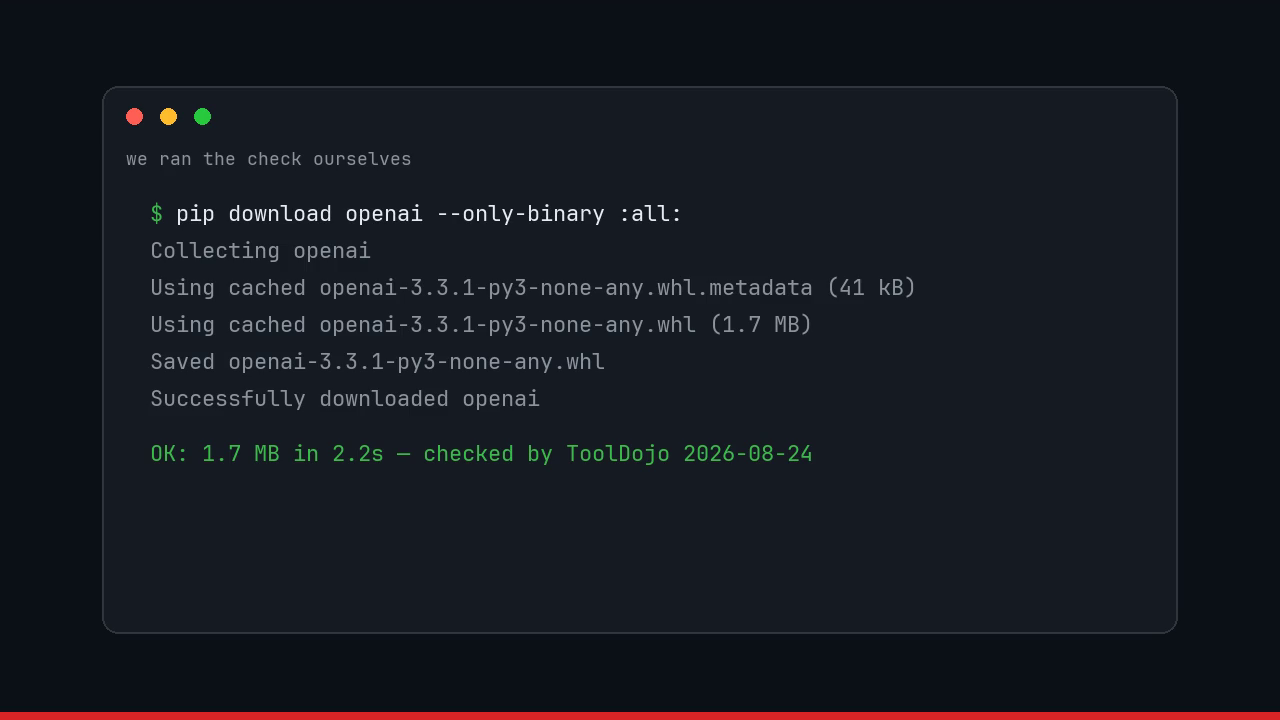
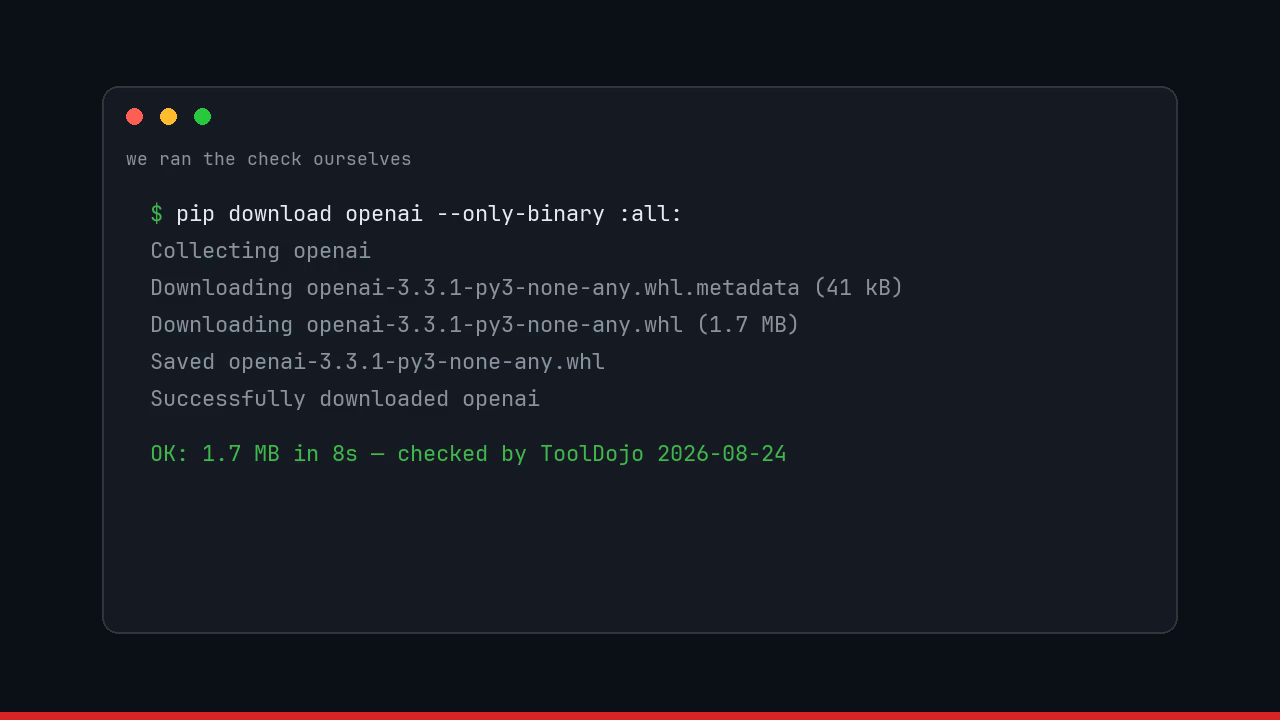
review: 9 root causes + 5 splits from the 70-agent pass, all fixed — the fetch gets a real wall clock and byte cap, receipts can no longer be planted by the LLM or read un-coerced post-upload, path rules split on both separators (the CI-red test), clone footage stops leaking the runner path, pip los

Changed region(s): [[0.125, 0.3667, 0.7188, 0.4583], [0.25, 0.6111, 0.625, 0.6417]]

diff --git a/factverse/receipts.py b/factverse/receipts.py
@@ -26,26 +26,40 @@ from factverse.screencap import INSTALL_KW, _ffmpeg, _mono_font
 
 PIP_TIMEOUT = 180
 CLONE_TIMEOUT = 180
-FETCH_TIMEOUT = 60
+FETCH_TIMEOUT = 60          # WALL-CLOCK for the whole fetch, not requests' per-read gap
+FETCH_MAX_BYTES = 2_000_000_000   # disk guard: past this the fetch is refused, not measured
 MAX_LINES = 8
 FPS = 30
 
 _PIP_RE = re.compile(r"\bpip3?(?:\.exe)?\s+install\s+(.+)", re.IGNORECASE)
 _CLONE_RE = re.compile(r"\bgit\s+clone\s+(\S+)", re.IGNORECASE)
 _FETCH_RE = re.compile(r"\b(?:curl|wget)\s+(.+)", re.IGNORECASE)
-# A segment that needs a shell to mean anything (pipes, docker, npx, process
-# substitution) is not download-checkable. Measuring the 10KB install.sh of a
-# `curl ... | sh` line and stamping it as "the download" would be a lie.
-_REFUSE_RE = re.compile(r"\||\bdocker\b|\bnpx\b|<\(", re.IGNORECASE)
-_PKG_OK = re.compile(r"^[A-Za-z0-9._-]+$")
+# A segment that needs a shell to mean anything (pipes, chaining, command
+# substitution, docker, npx) is not download-checkable. Measuring the 10KB
+# install.sh of a `curl ... | sh` line — or of its `&& sh install.sh` /
+# `$(curl ...)` cousins, which the review caught slipping through — and
+# stamping it as "the download" would be a lie.
+_REFUSE_RE = re.compile(r"\||&&|;|\$\(|`|\bdocker\b|\bnpx\b|<\(", re.IGNORECASE)
+# leading alphanumeric: kills `.`, `..` and every flag-shaped residue — a local
+# directory target would make pip BUILD it, which executes the build backend
+_PKG_OK = re.compile(r"^[A-Za-z0-9][A-Za-z0-9._-]*$")
+# flags whose ARGUMENT is not a package (pip install -r requirements.txt would
+# otherwise "check" whatever PyPI squatter owns that literal name)
+_CONSUMING_FLAGS = {"-r", "--requirement", "-c", "--constraint", "-e", "--editable",
+                    "-t", "--target", "-i", "--index-url", "--extra-index-url",
+                    "-f", "--find-links"}
 
 
 def _pip_target(rest: str) -> str:
     """First non-flag token after `install`, reduced to a bare package name.
     A URL install (git+https://...) is a SOURCE build — pip would execute its
     setup.py — so it is refused here, not merely failed later."""
-    for tok in rest.split():
+    toks = rest.split()
+    i = 0
+    while i < len(toks):
+        tok = toks[i]
         if tok.startswith("-"):
+            i += 2 if tok.split("=")[0] in _CONSUMING_FLAGS else 1
             continue
         if "://" in tok or tok.startswith("git+"):
             return ""
@@ -65,27 +79,32 @@ def check_plan(deliverable_text: str, dest: str) -> dict | None:
         if m:
             pkg = _pip_target(m.group(1))
             if pkg:
-                return {"kind": "pip", "target": pkg,
+                return {"kind": "pip", "target": pkg, "dest": dest,
                         "args": [sys.executable, "-m", "pip", "download", pkg,
                                  "--no-deps", "--only-binary", ":all:",
+                                 "--no-cache-dir",  # a cached wheel is a 0.1s "download" — a lie
                                  "--progress-bar", "off", "--no-input", "-d", dest]}
             continue
         m = _CLONE_RE.search(seg)
         if m and m.group(1).startswith(("http://", "https://")):
-            return {"kind": "clone", "target": m.group(1),
+            return {"kind": "clone", "target": m.group(1), "dest": dest,
                     "args": ["git", "clone", "--depth", "1", m.group(1), dest]}
         m = _FETCH_RE.search(seg)
         if m:
             url = next((t.strip("'\"") for t in m.group(1).split()
                         if t.startswith(("http://", "https://"))), "")
             if url:
-                return {"kind": "fetch", "target": url, "args": []}
+                return {"kind": "fetch", "target": url, "dest": dest, "args": []}
     return None
 
 
 def _round_mb(nbytes: int) -> float | int:
+    """1 decimal under 10 MB, whole numbers from 10 up — and never 0 for a real
+    download: a 10KB script would otherwise narrate 'at 0 megabytes'."""
     mb = nbytes / 1e6
-    return int(round(mb)) if mb >= 10 else round(mb, 1)
+    if mb >= 10:
+        return int(round(mb))
+    return max(0.1, round(mb, 1)) if nbytes > 0 else 0
 
 
 def _num(x) -> str:
@@ -118,11 +137,20 @@ def _dest_bytes(dest: Path) -> int:
     return sum(f.stat().st_size for f in dest.rglob("*") if f.is_file())
 
 
+def _basename(p: str) -> str:
+    """Last path segment on EITHER separator — pathlib's .name is a no-op for a
+    backslash path on posix, which turned the Saved rule into a lie on the very
+    CI the suite runs on."""
+    return re.split(r"[\\/]+", str(p).rstrip("\\/"))[-1]
+
+
 def _clean_lines(raw: str) -> list[str]:
     """The footage shows the TOOL's output, not the runner's housekeeping: pip's
-    [notice] upgrade nags are dropped, and the 'Saved <local path>' line keeps
-    only the filename — the live frame inspection caught the machine's own
-    directory layout burned onto a to-be-published video."""
+    [notice] upgrade nags are dropped, and the lines that carry a local path —
+    pip's 'Saved <path>' and git's "Cloning into '<path>'..." — keep only its
+    last segment. The live frame inspection caught the machine's own directory
+    layout burned onto a to-be-published video; the review caught the clone
+    branch re-shipping the same leak."""
     out = []
     for l in str(raw or "").splitlines():
         l = l.strip()
@@ -130,7 +158,10 @@ def _clean_lines(raw: str) -> list[str]:
             continue
         m = re.match(r"(?i)(saved\s+)(\S+)$", l)
         if m:
-            l = m.group(1) + Path(m.group(2)).name
+            l = m.group(1) + _basename(m.group(2))
+        m = re.match(r"(?i)(cloning into ')([^']+)('.*)$", l)
+        if m:
+            l = m.group(1) + _basename(m.group(2)) + m.group(3)
         out.append(l)
     return out[:MAX_LINES]
 
@@ -141,7 +172,8 @@ def run_check(plan: dict) -> dict | None:
     after measuring (a torch wheel is GBs of runner disk)."""
     if not plan:
         return None
-    dest = Path(plan["args"][-1]) if plan.get("args") else fv.TEMP / "receipts_dl"
+    dest = Path(plan.get("dest") or (plan["args"][-1] if plan.get("args")
+                                     else fv.TEMP / "receipts_dl"))
     try:
         shutil.rmtree(dest, ignore_errors=True)
         dest.mkdir(parents=True, exist_ok=True)
@@ -156,13 +188,25 @@ def run_check(plan: dict) -> dict | None:
             lines = _clean_lines((r.stdout or "") + "\n" + (r.stderr or ""))
         else:  # fetch — requests stream, no subprocess, never piped anywhere
             import requests
-            name = plan["target"].rstrip("/").rsplit("/", 1)[-1] or "download"
+            # the URL is README-verbatim = attacker-controlled: the filename is
+            # sanitized so it cannot walk out of dest (backslashes are path
+            # separators on the supervised Windows box), and the stream gets the
+            # WALL-CLOCK deadline requests' own timeout does not provide — a
+            # server dripping one byte a minute would otherwise hold the
+            # unattended run until the CI job kill, on both cron firings.
+            name = re.sub(r"[^A-Za-z0-9._-]", "_",
+                          _basename(plan["target"].split("?")[0])).lstrip(".") or "download"
+            deadline = time.monotonic() + FETCH_TIMEOUT
+            got = 0
             with requests.get(plan["target"], stream=True,
                               timeout=FETCH_TIMEOUT) as r:
                 if r.status_code != 200:
                     return None
                 with open(dest / name, "wb") as f:
                     for chunk in r.iter_content(1 << 20):
+                        got += len(chunk)
+                        if time.monotonic() > deadline or got > FETCH_MAX_BYTES:
+                            return None
                         f.write(chunk)
             lines = [f"fetching {plan['target']}", f"saved {name}"]
         seconds = round(time.monotonic() - t0, 1)
@@ -259,10 +303,16 @@ def make_terminal_clip(result: dict, out_mp4: str, seconds: float) -> str | None
         # becomes a word"); a word is the deterministic fix.
         summary = (f"OK: {_num(result['mb'])} MB in {_num(result['seconds'])}s "
                    f"— checked by {fv.CHANNEL_NAME} {result['date']}")
-        content = [_display_cmd(result)] + list(result.get("lines", []))[:MAX_LINES]
-        content = [(l[:max_chars - 1] + "…") if len(l) > max_chars else l
-                   for l in content]
-        n = max(2, int(FPS * seconds))
+        if len(summary) > max_chars:   # a long configured channel name must not overrun
+            summary = summary[:max_chars - 1] + "…"
+        trunc = lambda l, budget: (l[:budget - 1] + "…") if len(l) > budget else l
+        # the command row is drawn 2 glyphs in (after the $), so its budget is 2 short
+        content = ([trunc(_display_cmd(result), max_chars - 2)]
+                   + [trunc(l, max_chars) for l in list(result.get("lines", []))[:MAX_LINES]])
+        # CEIL, not floor: a clip even 1/30s short of its share makes step5_build
+        # loop it, and the wrapped first frame flashes at the scene cut. A frame
+        # long is cut from the held summary — invisible.
+        n = max(2, -int(-FPS * seconds // 1))
         for fr in range(n):
             t = fr / (n - 1)
             img = Image.new("RGB", (W, H), _BG)

diff --git a/tests/test_pipeline_logic.py b/tests/test_pipeline_logic.py
@@ -1968,17 +1968,25 @@ def test_check_plan_downloads_and_never_executes():
     10KB script and call it 'the download') is refused. Pure — no network."""
     from factverse import receipts as rc
     p = rc.check_plan("pip install unsloth", "D")
-    assert p["kind"] == "pip" and p["target"] == "unsloth"
+    assert p["kind"] == "pip" and p["target"] == "unsloth" and p["dest"] == "D"
     assert p["args"][0] == sys.executable and p["args"][-1] == "D"
+    assert p["args"][1:4] == ["-m", "pip", "download"], \
+        "the verb IS the security invariant — install would execute"
     i = p["args"].index("--only-binary")
     assert p["args"][i + 1] == ":all:" and "--no-deps" in p["args"]
+    assert "--no-cache-dir" in p["args"], "a cached wheel is a 0.1s 'download' — a lie"
 
     # extras, pins and flags reduce to the bare name
     p = rc.check_plan("pip install -U 'transformers[torch]>=4.44'", "D")
     assert p["target"] == "transformers"
 
-    # a URL install is a source build = execution; refuse, do not "fail later"
+    # a URL install is a source build = execution; refuse, do not "fail later".
+    # So is a local directory ('.'), and a consuming flag's argument is not a
+    # package (pip download requirements.txt would fetch a PyPI squatter's wheel).
     assert rc.check_plan("pip install git+https://github.com/o/r", "D") is None
+    assert rc.check_plan("pip install .", "D") is None
+    assert rc.check_plan("pip install -e .", "D") is None
+    assert rc.check_plan("pip install -r requirements.txt", "D") is None
 
     p = rc.check_plan("git clone https://github.com/ollama/ollama", "D")
     assert p["kind"] == "clone" and p["args"] == \
@@ -1994,7 +2002,12 @@ def test_check_plan_downloads_and_never_executes():
 
     for refused in ("curl -fsSL https://ollama.com/install.sh | sh",
                     "docker run -it ubuntu", "npx create-thing",
-                    "bash <(curl https://x.sh)", "just words no commands"):
+                    "bash <(curl https://x.sh)", "just words no commands",
+                    # the review caught the non-piped shell forms slipping through:
+                    "curl https://x.sh -o i.sh && sh i.sh",
+                    "wget https://x.sh; bash x.sh",
+                    'bash -c "$(curl -fsSL https://x.sh)"',
+                    "sh -c `curl https://x.sh`"):
         assert rc.check_plan(refused, "D") is None, refused
 
 
@@ -2030,6 +2043,23 @@ def test_run_check_fails_soft_at_every_seam(monkeypatch, tmp_path):
     assert rc.run_check(fplan) is None
     assert rc.run_check(None) is None
 
+    # the review's high finding: requests' timeout bounds the gap BETWEEN reads,
+    # not the total — an endless stream must trip the byte cap / wall clock, not
+    # hold the unattended run until the 90-minute CI job kill
+    class _Stream:
+        status_code = 200
+        def __enter__(self):
+            return self
+        def __exit__(self, *a):
+            return False
+        def iter_content(self, n):
+            while True:
+                yield b"x" * 1024
+    monkeypatch.setattr(_requests, "get", lambda *a, **k: _Stream())
+    monkeypatch.setattr(rc, "FETCH_MAX_BYTES", 4096)
+    assert rc.run_check(fplan) is None
+    assert not (tmp_path / "dl").exists()
+
 
 def test_run_check_measures_the_real_download(monkeypatch, tmp_path):
     """Seconds and megabytes come from the measured download, the output lines are
@@ -2058,8 +2088,10 @@ def test_run_check_measures_the_real_download(monkeypatch, tmp_path):
     assert r["lines"][0] == "Collecting foo" and len(r["lines"]) <= 8
     assert r["version"] == "1.0" and len(r["date"]) == 10
     assert not dest.exists(), "a torch-sized wheel must not be left on the runner"
-    # the rounding contract: 1 decimal under 10 MB, whole numbers from 10 up
+    # the rounding contract: 1 decimal under 10 MB, whole numbers from 10 up —
+    # and a real download is never spoken as "0 megabytes"
     assert rc._round_mb(9_440_000) == 9.4 and rc._round_mb(15_500_000) == 16
+    assert rc._round_mb(40_000) == 0.1 and rc._round_mb(0) == 0
 
 
 def test_footage_lines_show_the_tool_not_the_runner():
@@ -2076,6 +2108,14 @@ def test_footage_lines_show_the_tool_not_the_runner():
     assert lines == ["Collecting openai", "Saved openai-3.3.1-py3-none-any.whl",
                      "Successfully downloaded openai"]
     assert rc._clean_lines("\n".join(f"line {i}" for i in range(20)))[-1] == "line 7"
+    # ...on BOTH separators (pathlib's .name is a no-op for backslashes on posix —
+    # the exact bug that turned this test red on ubuntu CI), and for the clone
+    # branch's own path leak, git's "Cloning into '<abs path>'..." stderr line
+    assert rc._basename("/home/runner/work/repo/x.whl") == "x.whl"
+    assert rc._basename("d:\\temp\\dl\\x.whl") == "x.whl"
+    posix = rc._clean_lines("Saved /home/runner/work/FactVerse/temp/receipts_dl/x.whl\n"
+                            "Cloning into '/home/runner/work/FactVerse/temp/receipts_dl'...\n")
+    assert posix == ["Saved x.whl", "Cloning into 'receipts_dl'..."]
 
 
 def test_beat_lands_on_the_install_scene_and_nowhere_else():
@@ -2187,5 +2227,9 @@ def test_terminal_clip_frames_are_real_and_reveal_the_summary(monkeypatch, tmp_p
     assert out and seen["n"] == 6 and seen["fps"] == "30"
     assert seen["size"] == (1280, 720) and seen["baseline"] == (220, 38, 38)
     assert seen["green_grew"], "the summary line never arrived on the held frame"
+    # frame count CEILS: a clip even 1/30s short of its share is looped by
+    # step5_build and the wrapped first frame flashes at the scene cut
+    rc.make_terminal_clip(res, str(tmp_path / "z.mp4"), 0.21)
+    assert seen["n"] == 7
     assert rc.make_terminal_clip(res, str(tmp_path / "x.mp4"), 0) is None
     assert rc.make_terminal_clip({}, str(tmp_path / "y.mp4"), 3) is None

diff --git a/factverse/ai_pipeline.py b/factverse/ai_pipeline.py
@@ -1434,6 +1434,12 @@ def run(publish: bool = False, force_format: str | None = None) -> dict | None:
     # row below stamps a fallback video with the format nobody made and the
     # learning loop reads a tool video that never existed.
     fmt = script.get("format", fmt)
+    # _validate_script mutates the LLM's dict in place, so a top-level key the
+    # model invents SURVIVES into the script. "receipts" must only ever be set by
+    # receipts.add_beat after a real measured check — a planted value would render
+    # fabricated "we checked this" footage, and a planted non-dict would raise
+    # inside the post-upload record_run call (the double-publish zone).
+    script.pop("receipts", None)
 
     # critique first (it now cuts repetition), then the floor (sanity only),
     # then the CAP — padding is the enemy, not brevity
@@ -1783,7 +1789,7 @@ def run(publish: bool = False, force_format: str | None = None) -> dict | None:
                confidence=conf, stat_card_share=round(stat_share, 3),
                grounding_chars=len(str(script.get("grounding", ""))),
                receipts=({k: script["receipts"].get(k) for k in ("kind", "seconds", "mb")}
-                         if script.get("receipts") else None),
+                         if isinstance(script.get("receipts"), dict) else None),
                deliverable=bool(script.get("deliverable")), cheat_sheet=bool(cheat_sheet),
                insight_block=l2_rec.get("insight"), cold_open=l2_rec.get("cold_open"),
                publish_at=long_publish_at,

diff --git a/docs/spec/ai-pulse-v3e2.md b/docs/spec/ai-pulse-v3e2.md
@@ -24,6 +24,45 @@ Anything that would need to execute candidate code (docker, npx, piped sh) is re
 | 9 | Beat text | `Checked by {fv.CHANNEL_NAME} on {Month D}: the download finished in {seconds} seconds at {mb} megabytes.` — units as words, never "MB" (TTS); date parsed from `result["date"]` so beat and stamp agree | The audit's literal beat, two numbers max, deterministic |
 | 10 | Clip look | 1280×720, FPS 30, code-card palette (bg `13,17,23`, card `22,27,34`, outline `48,54,61`, traffic lights, `_mono_font(22)`, `$` prompt `63,185,80`); command line (derived from kind+target: `pip download <pkg> --only-binary :all:` / `git clone --depth 1 <url>` / `curl -L -o <name> <url>`) + real output lines revealed sequentially over the first 70% of the clip; from 70% the summary line `✔ {mb} MB in {seconds}s — checked by {channel} {date}` holds in `63,185,80`; over-long lines truncate with `…`, never wrap | Same design system as `render_code_card_png`; the summary frame is the receipts identity. The `✔` glyph must survive the live frame inspection (the repo has shipped tofu before — "star glyph becomes a word"); if it renders as tofu it becomes the word `OK` |
 
+## REVIEW ADDENDUM (70-agent adversarial pass over the diff: 6 lenses → 32 raw findings
+## → 20 confirmed + 5 split + 7 refuted; the 20 collapse to 9 root causes, all fixed, and
+## all 5 splits were upheld on adjudication and fixed too. Each fix is pinned by a test.)
+- **Fetch is now actually bounded (high):** requests' `timeout` only gaps between reads, so a
+  slow-drip URL held the run until the 90-min CI job kill — on both cron firings. The stream
+  now has a **60s wall-clock deadline and a `FETCH_MAX_BYTES = 2 GB` cap** (exceed → `None`),
+  and the saved filename is **sanitized** (`[^A-Za-z0-9._-]` → `_`, leading dots stripped) so a
+  backslash URL segment cannot walk out of dest on the supervised Windows box.
+- **`script["receipts"]` is LLM-reachable (high):** `_validate_script` mutates the model's dict
+  in place, so a planted top-level `receipts` survived — fabricated footage, and a non-dict
+  raised inside the post-upload `record_run` (the double-publish zone). `run()` now **pops
+  `receipts`** right after the format re-bind (only `add_beat` may set it) and the ledger read
+  is `isinstance(dict)`-guarded.
+- **The Saved-line sanitizer was posix-broken (high):** `Path(...).name` cannot split a
+  backslash path on ubuntu — the amendment test itself was red on the repo's actual CI. Both
+  path rules now use `_basename` (`re.split` on either separator), and git's
+  `Cloning into '<abs path>'...` stderr line — the clone branch re-shipping the same leak —
+  keeps only the last segment.
+- **pip's cache made the number a lie:** `--no-cache-dir` joins the locked arg list; a cached
+  wheel produced a physically impossible "download" time and a frame that contradicted it.
+- **Refusal screen widened:** `&&`, `;`, `$(` and backticks join `|`/docker/npx/`<(` — the
+  non-piped shell forms (`curl x.sh -o i.sh && sh i.sh`) were stamping a 10KB installer stub
+  as "the download". `_pip_target` now requires a **leading alphanumeric** (kills `.`/`..` — a
+  local-directory target makes pip EXECUTE the build backend) and skips the argument of
+  consuming flags (`-r requirements.txt` would have "checked" a PyPI squatter's wheel).
+- **`_round_mb` floors nonzero at 0.1** — a 10KB fetch narrated "at 0 megabytes".
+- **Frame count CEILS** (`max(2, ceil(FPS·s))`) — the `int()` floor left the clip up to 1/30s
+  short of its share, step5_build looped it, and animation frame 0 flashed at the scene cut.
+- **Plans carry `dest`** for every kind (the fetch plan's empty `args` made run_check fall back
+  to the real repo temp dir — which the fail-soft test then rmtree'd).
+- **Render polish from the split findings:** the command row's truncation budget accounts for
+  its 2-glyph prompt indent; the summary line truncates against the same measured budget (a
+  long configured channel name must not overrun); the tests pin the `download` verb itself
+  (`args[1:4]`) — the verb IS the invariant.
+- **Refuted (recorded, unchanged):** blind-SSRF-to-published-surface (response bytes never reach
+  any shipped surface; the wall-clock + sanitizer shrink the surface anyway), the x0-vs-indent
+  overhang variant, summary-measurement (fixed regardless via the split), fetch-name traversal
+  on posix (backslash is not a separator there), and the run()-ordering-untested claim.
+
 ## LIVE-INSPECTION AMENDMENTS (2026-08-24, first real frames)
 - **#10 amended — summary prefix is `OK:`, unconditionally.** The `✔` rendered as tofu in
   JetBrains Mono on the very first live frame, and a width probe cannot detect tofu (tofu HAS
@@ -42,15 +81,19 @@ Anything that would need to execute candidate code (docker, npx, piped sh) is re
   inserted after `fact_check`
 
 ## ACCEPTANCE CRITERIA (binary)
-- [ ] `check_plan` on a pip/clone/curl deliverable returns args containing
-      `--only-binary :all:` / `--depth 1` / no shell; docker & piped-sh return `None`
-      (pure, no network)
-- [ ] Beat lands at the end of the install scene, narration re-joined; a script with no
+- [x] `check_plan` on a pip/clone/curl deliverable returns args containing
+      `--only-binary :all:` / `--depth 1` / no shell; docker & piped-sh (and the review's
+      `&&`/`;`/`$(`/backtick forms) return `None` (pure, no network)
+- [x] Beat lands at the end of the install scene, narration re-joined; a script with no
       install scene → no beat, no clip, no network spend, no error
-- [ ] A `thumb_text` number spoken only in the beat passes `packaging_payoff`
-- [ ] Replace-vs-insert share math matches `card_slot_dur` semantics (test on both branches)
-- [ ] `run_check` failure at every seam returns `None` and `run()` still reaches upload
-- [ ] Suite green; live: real check against a real package, clip rendered, frames inspected,
+- [x] A `thumb_text` number spoken only in the beat passes `packaging_payoff`
+- [x] Replace-vs-insert share math matches `card_slot_dur` semantics (test on both branches)
+- [x] `run_check` failure at every seam returns `None` (each seam stubbed and tested,
+      incl. the endless-stream one); the `run()` wiring itself adds no raise path (pop /
+      print / rejoin only) — final proof is the supervised `format=tool` dispatch
+- [x] Suite green (137/137); live: real cold check against a real package (openai 3.3.1,
+      1.7 MB in 8s, registry version+date fetched), clip rendered to its exact share,
+      frames inspected twice (the first inspection found 3 defects, the second is clean),
       beat printed
 
 ## RISKS

diff --git a/docs/PHASES.md b/docs/PHASES.md
@@ -13,7 +13,7 @@ One phase per session. A phase that isn't pushed doesn't exist.
 | **v3-C.3: render-surface hardening** | the C.1/C.2 treatment applied to everything DOWNSTREAM of the script: stat cards rendered to their real slot and never rewriting their own number, caption phrases that stop overlapping, Shorts hooks fitted by measurement, `normalize_moments`, thumbnail text measured against the frame, `l2.splice` reporting failure, `l2_usage`/`stock_ledger` surviving the CI state-save, a scene keeping its duration when a clip fails | ✅ done 2026-08-24 (112/112; 10 defects, each reproduced then fixed; 27 candidates found, 15 refuted; artifacts rendered and inspected) | `v3-phase-c`; spec: docs/spec/ai-pulse-v3c3.md |
 | **v3-C.4: tool suitability screen precision** | the never-reviewed `UNSUITABLE_TOOL` list measured against live feeds, 28 flagship tools and 11 defensive tools: prose words (`bypass`/`crack`) screen the title only, subject terms exempt a defensive reading, repo punctuation normalises, GitHub grounds on the raw README while the screen still reads the page | ✅ done 2026-08-24 (117/117; 5 defects, each reproduced then fixed; verified against live network) | `v3-phase-c`; spec: docs/spec/ai-pulse-v3c4.md |
 | **v3-E: receipts + packaging precision** | the 12-rank gap audit vs Hyperautomation Labs, code side: `verified_facts` (stars/size/license fetched per candidate, fed to writer + cards + thumb), command-containment gate (deliverable.text must be a substring of the README), packaging-payoff gate (every number in title/thumb must be spoken in narration), limitation scene grounded in the repo's top GitHub issues, `receipts.py` (safe CI checks: pip download timing/size, registry lookups → 'Checked by <channel> on <date>' beat + real terminal footage), declarative numeric thumb contract, deterministic tool chapters, per-lane pinned comment (command + PDF link), PDF upgraded to HAL-style field guide (per-item stars/license/'Honest:' line), post-rename brand asset regen ('AI YOU CAN USE'), ElevenLabs seam behind a flag for the 10-video verdict window (~$11 once, Creator first-month; fail-soft to kokoro) | ✅ part 1 done 2026-08-24 (129/129; 11 review findings fixed; artifacts inspected: PDF receipts line, ToolDojo bumpers, live API fetches) | `v3-phase-c`; spec: docs/spec/ai-pulse-v3e.md |
-| **v3-E.2: receipts.py** | safe CI check-execution (pip download timing/size, registry lookups — never executing candidate code) → 'Checked by ToolDojo on <date>' narration beat + real terminal footage clip | ⏳ queued | split from v3-E per the audit's own scoping |
+| **v3-E.2: receipts.py** | safe CI check-execution (download-only: wheels via `--only-binary :all:` `--no-cache-dir`, shallow clone, wall-clock+size-capped fetch — candidate code never executes), 'Checked by ToolDojo on <date>' narration beat on the install scene (before `packaging_payoff`, so its numbers support the thumb), real terminal footage rendered to its exact slot share, `receipts` ledger column | ✅ done 2026-08-24 (137/137; live cold check openai 3.3.1 + frames inspected twice — 1st inspection caught 3 defects incl. the tofu ✔; 70-agent adversarial review: 9 root-cause defects + 5 upheld splits, all fixed & test-pinned, incl. an unbounded fetch that could hang both cron firings and an LLM-plantable `script["receipts"]` in the double-publish zone) | `v3-phase-c`; spec: docs/spec/ai-pulse-v3e2.md |
 | **v3-F: distribution engine** | GitHub Pages becomes a real site (per-tool HTML page + regenerated index, both in stash list AND `state_merge.FILES`), then platform fan-out per feasibility audit: Telegram channel bot, X free tier, IG/FB Reels (Shorts re-used as-is), newsletter only after real subscribers exist | ⏳ queued after v3-E | platform audit: wf_5c0e184c |
 | v3-D: learning loop v1 | feed runs.jsonl + analytics.jsonl into topic/packaging choices (AVD ≥2:00 is the target metric) | ⏳ queued | needs ~2 weeks of v3 data first — **counted only from 2026-08-24**: owner disclosed pre-that analytics are ~94-98% self-generated views (different accounts/IPs), so every earlier row (incl. the 0:38 AVD baseline) is directionally useful but numerically invalid |
 
